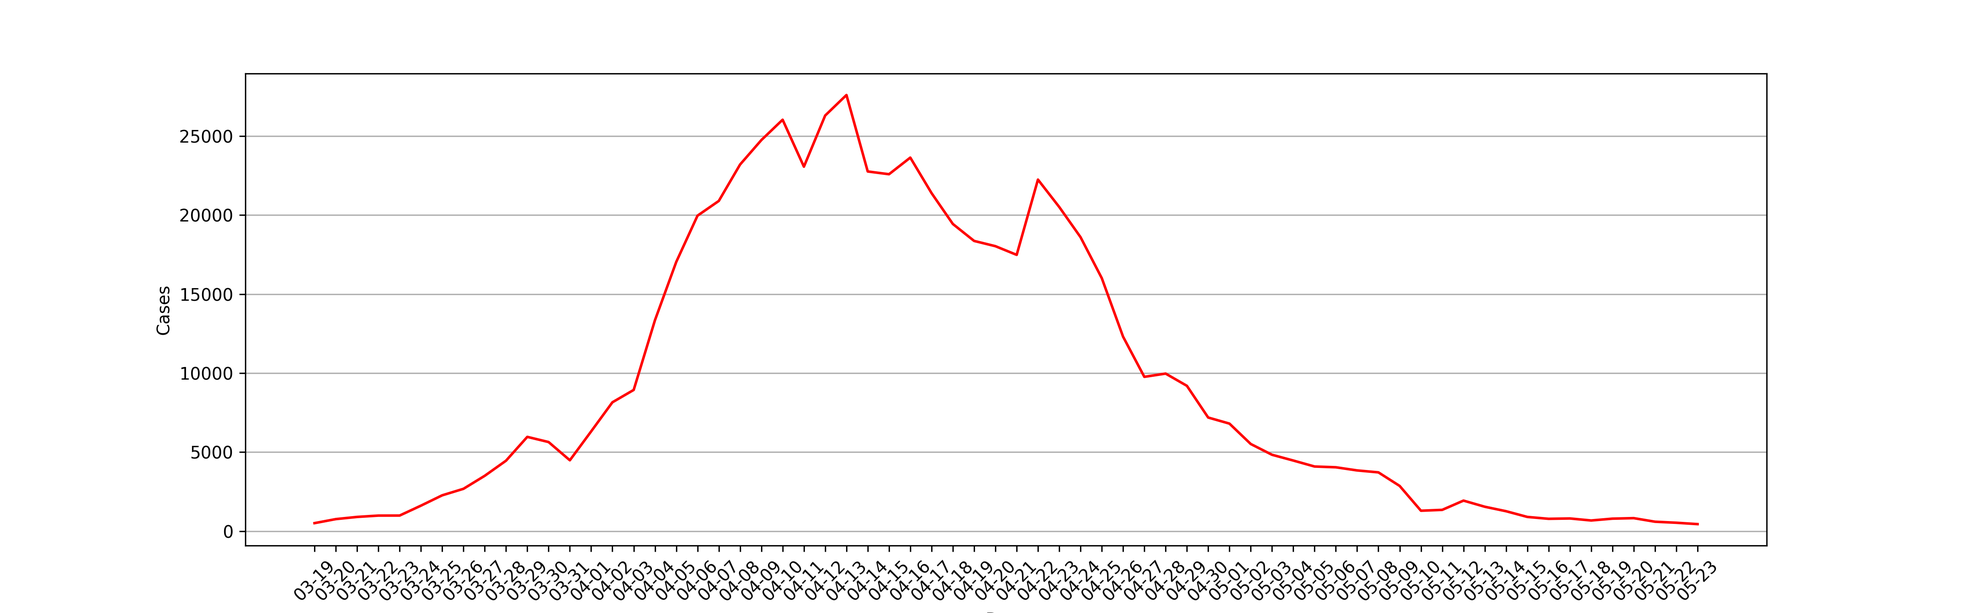
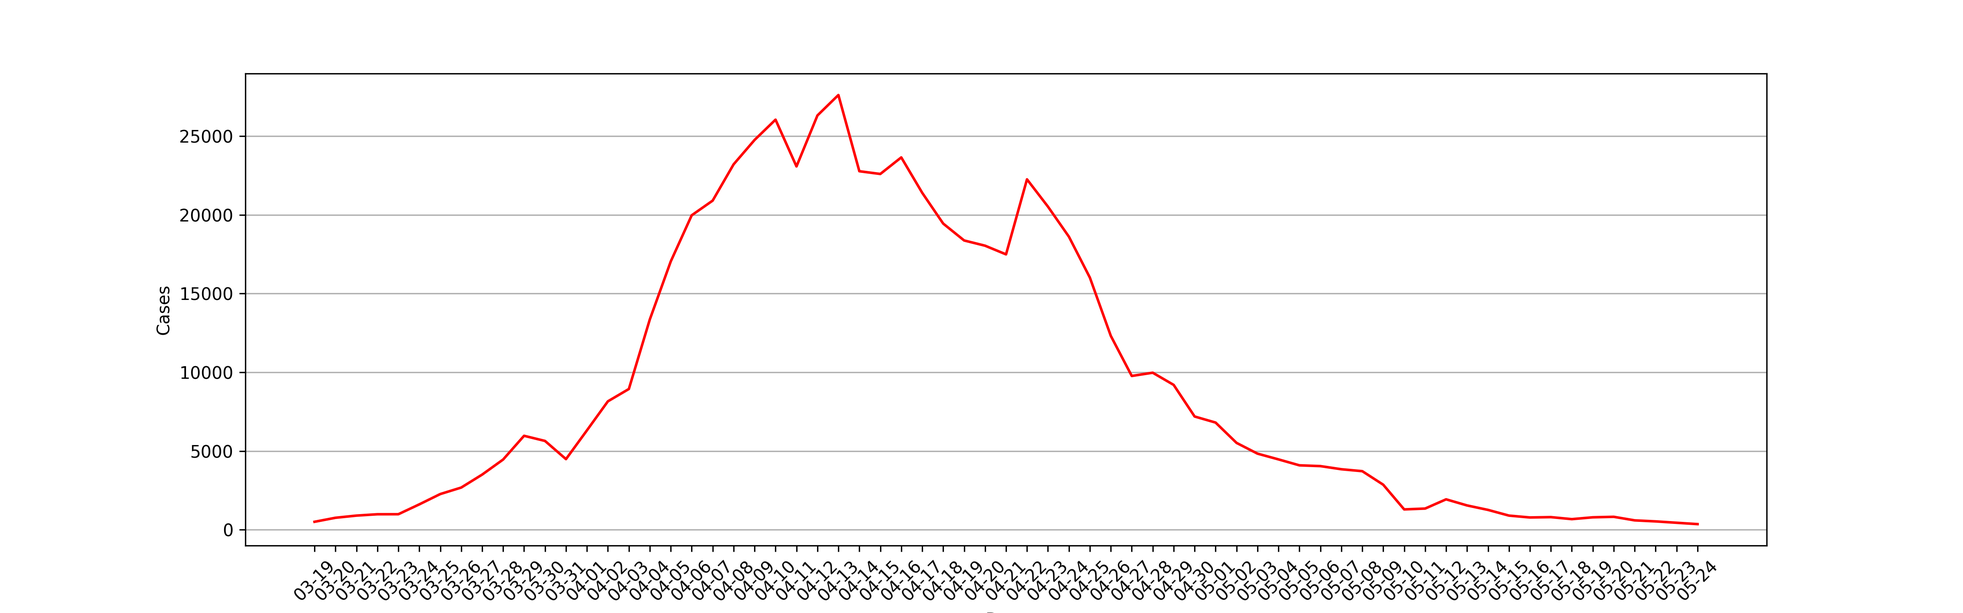
Commit by github action

diff --git a/archived_html/1946a8fdb590b7ddaebc3e6500a2647e.html b/archived_html/1946a8fdb590b7ddaebc3e6500a2647e.html
@@ -1,0 +1,151 @@
+<!DOCTYPE html>
+<html lang="zh-Hans">
+<head>
+    <meta charset="utf-8">
+    <meta http-equiv="Content-Security-Policy" content="upgrade-insecure-requests">
+    <meta name="viewport" content="width=device-width, initial-scale=1, maximum-scale=1, user-scalable=no">
+    <meta http-equiv="X-UA-Compatible" content="IE=Edge,chrome=1">
+    <meta http-equiv="Cache-Control" content="no-siteapp" />
+    <meta name="renderer" content="webkit">
+    <meta name="apple-mobile-web-app-capable" content="yes" />
+    <meta name="apple-mobile-web-app-status-bar-style" content="black" />
+    <title>上海2022年5月24日，新增本土新冠肺炎确诊病例44例 新增本土无症状感染者343例 无新增境外输入性新冠肺炎确诊病例 新增境外输入性无症状感染者3例__上海市卫生健康委员会</title>
+    <meta name="ColumnDescription" content="新闻发布"><!-- * -->
+    <meta name="ColumnKeywords" content="新闻发布"><!-- * -->
+    <!--<meta name="ColumnType" content=""> * -->
+    <meta name="ColumnName" content="新闻发布"><!-- * -->
+    <meta name="ArticleTitle" content="上海2022年5月24日，新增本土新冠肺炎确诊病例44例 新增本土无症状感染者343例 无新增境外输入性新冠肺炎确诊病例 新增境外输入性无症状感染者3例"><!-- * -->
+    <meta name="PubDate" content="2022-05-25"><!-- * -->
+    <meta name="ContentSource" content="上海市卫生健康委员会"><!-- * -->
+    <meta name="Author" content="上海市卫生健康委员会">
+    <meta name="Description" content="" />
+    <meta name="applicable-device" content="pc;mobile">
+    <meta name="location" content="北纬N31°11′51.89″ 东经E121°30′5.42″">
+    <!-- min CSS -->
+    <link rel="stylesheet" href="/assets/css/ETUI/ETUI3.min.css">
+    <!-- Custom CSS -->
+    <link rel="stylesheet" href="/assets/plugin/owl/owl.carousel.css">
+    <link rel="stylesheet" href="/assets/css/style.css">
+    <link rel="stylesheet" href="/assets/css/responsive.css">
+    <link rel="stylesheet" href="/assets/css/ETUI/ETUI3.Utility.css">
+    <!-- icons -->
+    <link rel="shortcut icon" href="/assets/img/ico/favicon.png">
+    <!-- 无障碍工具条 -->
+   <!-- <link rel="stylesheet" href="http://www.shanghai.gov.cn/jhelper_V2.0/jhelper_tool_style.css">
+    <script src="http://www.shanghai.gov.cn/jhelper_V2.0/wsj/jhelper_config.js" charset="gb2312"></script>
+    <noscript>不能读取工具条配置</noscript>
+    <script src="http://www.shanghai.gov.cn/jhelper_V2.0/jhelper_2.0.js" charset="gb2312"></script>
+    <noscript>不能读取工具条</noscript> 
+     -->
+    <script type="text/javascript">
+        function onsubmmit(pageIndex){
+            $("#pageIndex").val(1);
+            $("#searchField").val("0");
+            $("#timeScope").val("0");
+            $("#cmsSearchId").val("0");
+            $("#searchForm").submit();
+        }
+        function onselsubmmit(){
+            $("#pageIndex").val(1);
+            $("#searchForm").submit();
+        }
+        function psubmmit(pageIndex){
+            $("#pageIndex").val(pageIndex);
+            $("#searchForm").submit();
+        }
+        // 栏目
+        function chsubmmit(searchChId){
+            $("#pageIndex").val(1);
+            $("#searchField").val("0");
+            $("#timeScope").val("0");
+            $("#cmsSearchId").val(searchChId);
+            $("#searchForm").submit();
+        }
+    </script> 
+    <!-- 无障碍工具条 -->
+</head>
+<body>
+    <div id="accessNull"></div>
+    <div id="container">
+        <div class="channelinfo hidden"></div>
+        <script src="/assets/js/header.js"></script>
+        <div class="main" id="main">
+            <script src="/assets/js/jiansuo.js"></script>
+            <div class="main-container margin-top-15">
+                <div class="container ">
+                    <div class="relitive">
+                        <ol class="breadcrumb">
+                           <span>您现在所在的位置：</span>
+                            <li><a href="/index.html">首页</a></li>
+                            <li class="active">新闻中心</li>
+                           
+                            <li class="active">新闻发布</li>
+                           
+                        </ol>
+                        <div class="date-se">
+                            <i class="iconfont">&#xe60b;</i> <span id="time"></span>
+                        </div>
+                    </div>
+
+                    <div class="Article">
+                        <h2 id="ivs_title" class="Article-title">上海2022年5月24日，新增本土新冠肺炎确诊病例44例 新增本土无症状感染者343例 无新增境外输入性新冠肺炎确诊病例 新增境外输入性无症状感染者3例</br>
+                         <h2 class="Article-title">
+                            <small id="ivs_date" class="Article-time">( 2022-05-25)</small>
+                        </h2>
+                        <div id="ivs_player" style="text-align:center;"></div>
+                        <div id="ivs_content" class="Article_content">
+                           
+                                 <p style="font-size: medium;white-space: normal;margin-top: 10px;text-indent: 40px"><span style="font-size: 20px;font-family: 仿宋_GB2312">市卫健委今早（25日）通报：2022年5月24日0—24时，新增本土新冠肺炎确诊病例44例和无症状感染者343例，其中32例确诊病例为既往无症状感染者转归，12例确诊病例和342例无症状感染者在隔离管控中发现。新增境外输入性无症状感染者3例，均在闭环管控中发现。</span></p><p style="font-size: medium;white-space: normal;margin-top: 10px;text-indent: 40px"><span style="font-size: 20px;font-family: 仿宋_GB2312">2022</span><span style="font-size: 20px;font-family: 仿宋_GB2312">年5月24日0—24时，新增本土新冠肺炎确诊病例44例，含32例由既往无症状感染者转为确诊病例。新增治愈出院268例。</span></p><p style="font-size: medium;white-space: normal;margin-top: 10px;text-indent: 40px"><strong><span style="font-size: 20px;font-family: 黑体">病例1—病例4</span></strong><span style="font-size: 20px;font-family: 仿宋_GB2312">，居住于浦东新区，</span><strong><span style="font-size: 20px;font-family: 黑体">病例5</span></strong><span style="font-size: 20px;font-family: 仿宋_GB2312">，居住于徐汇区，</span><strong><span style="font-size: 20px;font-family: 黑体">病例6—病例9</span></strong><span style="font-size: 20px;font-family: 仿宋_GB2312">，居住于静安区，</span><strong><span style="font-size: 20px;font-family: 黑体">病例10</span></strong><span style="font-size: 20px;font-family: 仿宋_GB2312">，居住于普陀区，</span><strong><span style="font-size: 20px;font-family: 黑体">病例11、病例12</span></strong><span style="font-size: 20px;font-family: 仿宋_GB2312">，居住于宝山区，均为本市闭环隔离管控人员，其间新冠病毒核酸检测结果异常，经疾控中心复核结果为阳性。经市级专家会诊，综合流行病学史、临床症状、实验室检测和影像学检查结果等，诊断为确诊病例。</span></p><p style="font-size: medium;white-space: normal;margin-top: 10px;text-indent: 40px"><strong><span style="font-size: 20px;font-family: 黑体">病例13—病例24</span></strong><span style="font-size: 20px;font-family: 仿宋_GB2312">，居住于黄浦区，</span><strong><span style="font-size: 20px;font-family: 黑体">病例25—病例27</span></strong><span style="font-size: 20px;font-family: 仿宋_GB2312">，居住于虹口区，</span><strong><span style="font-size: 20px;font-family: 黑体">病例28—病例40</span></strong><span style="font-size: 20px;font-family: 仿宋_GB2312">，居住于杨浦区，</span><strong><span style="font-size: 20px;font-family: 黑体">病例41、病例42</span></strong><span style="font-size: 20px;font-family: 仿宋_GB2312">，居住于闵行区，</span><strong><span style="font-size: 20px;font-family: 黑体">病例43</span></strong><span style="font-size: 20px;font-family: 仿宋_GB2312">，居住于宝山区，</span><strong><span style="font-size: 20px;font-family: 黑体">病例44</span></strong><span style="font-size: 20px;font-family: 仿宋_GB2312">，居住于嘉定区，</span><span style="font-size: 20px;font-family: 仿宋_GB2312">为此前报告的本土无症状感染者。</span><span style="font-size: 20px;font-family: 仿宋_GB2312">经市级专家会诊，综合流行病学史、临床症状、实验室检测和影像学检查结果等，诊断为确诊病例。</span></p><p style="font-size: medium;white-space: normal;margin-top: 10px;text-indent: 40px"><span style="font-size: 20px;font-family: 仿宋_GB2312">2022</span><span style="font-size: 20px;font-family: 仿宋_GB2312">年5月24日0—24时，新增本土无症状感染者343例。</span></p><p style="font-size: medium;white-space: normal;text-indent: 40px"><strong><span style="font-size: 20px;font-family: 黑体">无症状感染者1—无症状感染者43</span></strong><span style="font-size: 20px;font-family: 仿宋_GB2312">，居住于浦东新区，</span><strong><span style="font-size: 20px;font-family: 黑体">无症状感染者44—无症状感染者64</span></strong><span style="font-size: 20px;font-family: 仿宋_GB2312">，居住于黄浦区，</span><strong><span style="font-size: 20px;font-family: 黑体">无症状感染者65—无症状感染者85</span></strong><span style="font-size: 20px;font-family: 仿宋_GB2312">，居住于徐汇区，</span><strong><span style="font-size: 20px;font-family: 黑体">无症状感染者86—无症状感染者111</span></strong><span style="font-size: 20px;font-family: 仿宋_GB2312">，居住于长宁区，</span><strong><span style="font-size: 20px;font-family: 黑体">无症状感染者112—无症状感染者147</span></strong><span style="font-size: 20px;font-family: 仿宋_GB2312">，居住于静安区，</span><strong><span style="font-size: 20px;font-family: 黑体">无症状感染者148—无症状感染者155</span></strong><span style="font-size: 20px;font-family: 仿宋_GB2312">，居住于普陀区，</span><strong><span style="font-size: 20px;font-family: 黑体">无症状感染者156—无症状感染者206</span></strong><span style="font-size: 20px;font-family: 仿宋_GB2312">，居住于虹口区，</span><strong><span style="font-size: 20px;font-family: 黑体">无症状感染者207—无症状感染者296</span></strong><span style="font-size: 20px;font-family: 仿宋_GB2312">，居住于杨浦区，</span><strong><span style="font-size: 20px;font-family: 黑体">无症状感染者297—无症状感染者318</span></strong><span style="font-size: 20px;font-family: 仿宋_GB2312">，居住于闵行区，</span><strong><span style="font-size: 20px;font-family: 黑体">无症状感染者319—无症状感染者336</span></strong><span style="font-size: 20px;font-family: 仿宋_GB2312">，居住于宝山区，</span><strong><span style="font-size: 20px;font-family: 黑体">无症状感染者337</span></strong><span style="font-size: 20px;font-family: 仿宋_GB2312">，居住于嘉定区，</span><strong><span style="font-size: 20px;font-family: 黑体">无症状感染者338</span></strong><span style="font-size: 20px;font-family: 仿宋_GB2312">，居住于松江区，</span><strong><span style="font-size: 20px;font-family: 黑体">无症状感染者339—无症状感染者342</span></strong><span style="font-size: 20px;font-family: 仿宋_GB2312">，居住于青浦区，</span><span style="font-size: 20px;font-family: 仿宋_GB2312">均为本市闭环隔离管控人员，其间新冠病毒核酸检测结果</span><span style="font-size: 20px;font-family: 仿宋_GB2312">异常，经疾控中心复核结果为阳性，诊断为无症状感染者。</span></p><p style="font-size: medium;white-space: normal;text-indent: 40px"><strong><span style="font-size: 20px;font-family: 黑体">无症状感染者343</span></strong><span style="font-size: 20px;font-family: 仿宋_GB2312">，居住于嘉定区，在风险人群筛查中发现新冠病毒核酸检测结果异常，即被隔离管控。经疾控中心复核结果为阳性，诊断为无症状感染者。</span></p><p style="font-size: medium;white-space: normal;text-indent: 40px"><span style="font-size: 20px;font-family: 仿宋_GB2312">2022</span><span style="font-size: 20px;font-family: 仿宋_GB2312">年5月24日0—24时，</span><span style="font-size: 20px;font-family: 仿宋_GB2312">无新增境外输入性新冠肺炎确诊病例。</span></p><p style="font-size: medium;white-space: normal;text-indent: 40px"><span style="font-size: 20px;font-family: 仿宋_GB2312">2022</span><span style="font-size: 20px;font-family: 仿宋_GB2312">年5月24日0—24时，新增境外输入性无症状感染者3例。</span></p><p style="font-size: medium;white-space: normal;text-indent: 40px"><strong><span style="font-size: 20px;font-family: 黑体">无症状感染者1</span></strong><span style="font-size: 20px;font-family: 仿宋_GB2312">为中国籍，在美国留学，自美国出发，于2022年5月16日抵达上海浦东国际机场，入关后即被集中隔离观察，其间例行核酸检测异常。经排查，区疾控中心新冠病毒核酸检测结果为阳性。综合流行病学史、临床症状、实验室检测和影像学检查结果等，诊断为无症状感染者。</span></p><p style="font-size: medium;white-space: normal;text-indent: 40px"><strong><span style="font-size: 20px;font-family: 黑体">无症状感染者2</span></strong><span style="font-size: 20px;font-family: 仿宋_GB2312">为中国籍，在赤道几内亚工作，自赤道几内亚出发，经法国转机，于2022年5月20日抵达上海浦东国际机场，入关后即被集中隔离观察，其间例行核酸检测异常。经排查，区疾控中心新冠病毒核酸检测结果为阳性。综合流行病学史、临床症状、实验室检测和影像学检查结果等，诊断为无症状感染者。</span></p><p style="font-size: medium;white-space: normal;text-indent: 40px"><strong><span style="font-size: 20px;font-family: 黑体">无症状感染者3</span></strong><span style="font-size: 20px;font-family: 仿宋_GB2312">为中国籍，在美国留学，自美国出发，于2022年5月21日抵达上海浦东国际机场，入关后即被集中隔离观察，其间例行核酸检测异常。经排查，区疾控中心新冠病毒核酸检测结果为阳性。综合流行病学史、临床症状、实验室检测和影像学检查结果等，诊断为无症状感染者。</span></p><p style="font-size: medium;white-space: normal;text-indent: 40px"><span style="font-size: 20px;font-family: 仿宋_GB2312">3</span><span style="font-size: 20px;font-family: 仿宋_GB2312">例境外输入性无症状感染者已转至定点医疗机构医学观察，已追踪同航班密切接触者24人，均已落实集中隔离观察。</span></p><p style="font-size: medium;white-space: normal;text-indent: 40px"><span style="font-size: 20px;font-family: 仿宋_GB2312">2022</span><span style="font-size: 20px;font-family: 仿宋_GB2312">年5月24日0—24时，解除医学观察无症状感染者4599例，其中本土无症状感染者4597例，境外输入性无症状感染者2例。</span></p><p style="font-size: medium;white-space: normal;margin-top: 10px;text-indent: 40px;vertical-align: baseline"><span style="font-size: 20px;font-family: 仿宋_GB2312">2022</span><span style="font-size: 20px;font-family: 仿宋_GB2312">年2月26日0时至2022年5月24日24时，累计本土确诊57819例，治愈出院55043例，在院治疗2190例（其中重型134例，危重型34例），死亡586。现有待排查的疑似病例0例。</span></p><p style="font-size: medium;white-space: normal;margin-top: 10px;text-indent: 40px;vertical-align: baseline"><span style="font-size: 20px;font-family: 仿宋_GB2312">截至2022年5月24日24时，累计境外输入性确诊病例4605例，出院4599例，在院治疗6例。现有待排查的疑似病例1例。</span></p><p style="font-size: medium;white-space: normal;margin-top: 10px;text-indent: 40px;vertical-align: baseline"><span style="font-size: 20px;font-family: 仿宋_GB2312">&nbsp;</span></p><table align="center" cellspacing="0" cellpadding="0" width="544"><tbody><tr style="height: 24px" class="firstRow"><td width="379" colspan="2" style="border-width: 1px; border-color: windowtext; padding: 0px 7px; border-style: solid;" height="24"><p style="text-align: center;vertical-align: baseline"><strong><span style="font-size: 19px;font-family: 仿宋_GB2312">区域</span></strong></p></td><td width="165" style="border-width: 1px; border-top-color: windowtext; border-right-color: windowtext; border-bottom-color: windowtext; border-style: solid; border-left-color: initial; padding: 0px 7px;" height="24"><p style="text-align: center;vertical-align: baseline"><strong><span style="font-size: 19px;font-family: 仿宋_GB2312">在院治疗确诊病例</span></strong></p></td></tr><tr style="height: 42px"><td width="213" rowspan="3" style="border-width: 1px; border-right-color: windowtext; border-bottom-color: windowtext; border-left-color: windowtext; border-style: solid; border-top-color: initial; padding: 0px 7px;" height="42"><p style="text-align: center;vertical-align: baseline"><span style="font-size: 19px;font-family: 仿宋_GB2312">境外输入人员</span></p><p style="text-align: center;vertical-align: baseline"><span style="font-size: 19px;font-family: 仿宋_GB2312">（按输入地分）</span></p></td><td width="165" valign="top" style="border-width: 1px; border-style: solid; border-top-color: initial; border-left-color: initial; border-bottom-color: windowtext; border-right-color: windowtext; padding: 0px 7px;" height="42"><p style="text-align: center;vertical-align: middle"><span style="font-size: 19px;font-family: 仿宋_GB2312">美国</span></p></td><td width="165" valign="top" style="border-width: 1px; border-style: solid; border-top-color: initial; border-left-color: initial; border-bottom-color: windowtext; border-right-color: windowtext; padding: 0px 7px;" height="42"><p style="text-align: center;vertical-align: middle"><span style="font-size: 19px;font-family: 仿宋_GB2312">4</span></p></td></tr><tr style="height: 42px"><td width="165" valign="top" style="border-width: 1px; border-style: solid; border-top-color: initial; border-left-color: initial; border-bottom-color: windowtext; border-right-color: windowtext; padding: 0px 7px;" height="42"><p style="text-align: center;vertical-align: middle"><span style="font-size: 19px;font-family: 仿宋_GB2312">加拿大</span></p></td><td width="165" valign="top" style="border-width: 1px; border-style: solid; border-top-color: initial; border-left-color: initial; border-bottom-color: windowtext; border-right-color: windowtext; padding: 0px 7px;" height="42"><p style="text-align: center;vertical-align: middle"><span style="font-size: 19px;font-family: 仿宋_GB2312">1</span></p></td></tr><tr style="height: 42px"><td width="165" valign="top" style="border-width: 1px; border-style: solid; border-top-color: initial; border-left-color: initial; border-bottom-color: windowtext; border-right-color: windowtext; padding: 0px 7px;" height="42"><p style="text-align: center;vertical-align: middle"><span style="font-size: 19px;font-family: 仿宋_GB2312">刚果（金）</span></p></td><td width="165" valign="top" style="border-width: 1px; border-style: solid; border-top-color: initial; border-left-color: initial; border-bottom-color: windowtext; border-right-color: windowtext; padding: 0px 7px;" height="42"><p style="text-align: center;vertical-align: middle"><span style="font-size: 19px;font-family: 仿宋_GB2312">1</span></p></td></tr><tr style="height: 33px"><td width="213" rowspan="16" style="border-width: 1px; border-right-color: windowtext; border-bottom-color: windowtext; border-left-color: windowtext; border-style: solid; border-top-color: initial; padding: 0px 7px;" height="33"><p style="text-indent: 19px;vertical-align: baseline"><span style="font-size: 19px;font-family: 仿宋_GB2312">本市居住或工作地</span></p></td><td width="165" style="border-width: 1px; border-style: solid; border-top-color: initial; border-left-color: initial; border-bottom-color: windowtext; border-right-color: windowtext; padding: 0px 7px;" height="33"><p style="text-align: center;vertical-align: middle"><span style="font-size: 19px;font-family: 仿宋_GB2312">浦东</span></p></td><td width="165" style="border-width: 1px; border-style: solid; border-top-color: initial; border-left-color: initial; border-bottom-color: windowtext; border-right-color: windowtext; padding: 0px 7px;" height="33"><p style="text-align: center"><span style="font-size: 19px;font-family: 仿宋_GB2312">151</span></p></td></tr><tr style="height: 33px"><td width="165" style="border-width: 1px; border-style: solid; border-top-color: initial; border-left-color: initial; border-bottom-color: windowtext; border-right-color: windowtext; padding: 0px 7px;" height="33"><p style="text-align: center;vertical-align: middle"><span style="font-size: 19px;font-family: 仿宋_GB2312">黄浦</span></p></td><td width="165" style="border-width: 1px; border-style: solid; border-top-color: initial; border-left-color: initial; border-bottom-color: windowtext; border-right-color: windowtext; padding: 0px 7px;" height="33"><p style="text-align: center"><span style="font-size: 19px;font-family: 仿宋_GB2312">307</span></p></td></tr><tr style="height: 33px"><td width="165" style="border-width: 1px; border-style: solid; border-top-color: initial; border-left-color: initial; border-bottom-color: windowtext; border-right-color: windowtext; padding: 0px 7px;" height="33"><p style="text-align: center;vertical-align: middle"><span style="font-size: 19px;font-family: 仿宋_GB2312">徐汇</span></p></td><td width="165" style="border-width: 1px; border-style: solid; border-top-color: initial; border-left-color: initial; border-bottom-color: windowtext; border-right-color: windowtext; padding: 0px 7px;" height="33"><p style="text-align: center"><span style="font-size: 19px;font-family: 仿宋_GB2312">309</span></p></td></tr><tr style="height: 33px"><td width="165" style="border-width: 1px; border-style: solid; border-top-color: initial; border-left-color: initial; border-bottom-color: windowtext; border-right-color: windowtext; padding: 0px 7px;" height="33"><p style="text-align: center;vertical-align: middle"><span style="font-size: 19px;font-family: 仿宋_GB2312">长宁</span></p></td><td width="165" style="border-width: 1px; border-style: solid; border-top-color: initial; border-left-color: initial; border-bottom-color: windowtext; border-right-color: windowtext; padding: 0px 7px;" height="33"><p style="text-align: center"><span style="font-size: 19px;font-family: 仿宋_GB2312">143</span></p></td></tr><tr style="height: 33px"><td width="165" style="border-width: 1px; border-style: solid; border-top-color: initial; border-left-color: initial; border-bottom-color: windowtext; border-right-color: windowtext; padding: 0px 7px;" height="33"><p style="text-align: center;vertical-align: middle"><span style="font-size: 19px;font-family: 仿宋_GB2312">静安</span></p></td><td width="165" style="border-width: 1px; border-style: solid; border-top-color: initial; border-left-color: initial; border-bottom-color: windowtext; border-right-color: windowtext; padding: 0px 7px;" height="33"><p style="text-align: center"><span style="font-size: 19px;font-family: 仿宋_GB2312">359</span></p></td></tr><tr style="height: 33px"><td width="165" style="border-width: 1px; border-style: solid; border-top-color: initial; border-left-color: initial; border-bottom-color: windowtext; border-right-color: windowtext; padding: 0px 7px;" height="33"><p style="text-align: center;vertical-align: middle"><span style="font-size: 19px;font-family: 仿宋_GB2312">普陀</span></p></td><td width="165" style="border-width: 1px; border-style: solid; border-top-color: initial; border-left-color: initial; border-bottom-color: windowtext; border-right-color: windowtext; padding: 0px 7px;" height="33"><p style="text-align: center"><span style="font-size: 19px;font-family: 仿宋_GB2312">170</span></p></td></tr><tr style="height: 33px"><td width="165" style="border-width: 1px; border-style: solid; border-top-color: initial; border-left-color: initial; border-bottom-color: windowtext; border-right-color: windowtext; padding: 0px 7px;" height="33"><p style="text-align: center;vertical-align: middle"><span style="font-size: 19px;font-family: 仿宋_GB2312">虹口</span></p></td><td width="165" style="border-width: 1px; border-style: solid; border-top-color: initial; border-left-color: initial; border-bottom-color: windowtext; border-right-color: windowtext; padding: 0px 7px;" height="33"><p style="text-align: center"><span style="font-size: 19px;font-family: 仿宋_GB2312">225</span></p></td></tr><tr style="height: 33px"><td width="165" style="border-width: 1px; border-style: solid; border-top-color: initial; border-left-color: initial; border-bottom-color: windowtext; border-right-color: windowtext; padding: 0px 7px;" height="33"><p style="text-align: center;vertical-align: middle"><span style="font-size: 19px;font-family: 仿宋_GB2312">杨浦</span></p></td><td width="165" style="border-width: 1px; border-style: solid; border-top-color: initial; border-left-color: initial; border-bottom-color: windowtext; border-right-color: windowtext; padding: 0px 7px;" height="33"><p style="text-align: center"><span style="font-size: 19px;font-family: 仿宋_GB2312">432</span></p></td></tr><tr style="height: 33px"><td width="165" style="border-width: 1px; border-style: solid; border-top-color: initial; border-left-color: initial; border-bottom-color: windowtext; border-right-color: windowtext; padding: 0px 7px;" height="33"><p style="text-align: center;vertical-align: middle"><span style="font-size: 19px;font-family: 仿宋_GB2312">闵行</span></p></td><td width="165" style="border-width: 1px; border-style: solid; border-top-color: initial; border-left-color: initial; border-bottom-color: windowtext; border-right-color: windowtext; padding: 0px 7px;" height="33"><p style="text-align: center"><span style="font-size: 19px;font-family: 仿宋_GB2312">9</span></p></td></tr><tr style="height: 33px"><td width="165" style="border-width: 1px; border-style: solid; border-top-color: initial; border-left-color: initial; border-bottom-color: windowtext; border-right-color: windowtext; padding: 0px 7px;" height="33"><p style="text-align: center;vertical-align: middle"><span style="font-size: 19px;font-family: 仿宋_GB2312">宝山</span></p></td><td width="165" style="border-width: 1px; border-style: solid; border-top-color: initial; border-left-color: initial; border-bottom-color: windowtext; border-right-color: windowtext; padding: 0px 7px;" height="33"><p style="text-align: center"><span style="font-size: 19px;font-family: 仿宋_GB2312">14</span></p></td></tr><tr style="height: 33px"><td width="165" style="border-width: 1px; border-style: solid; border-top-color: initial; border-left-color: initial; border-bottom-color: windowtext; border-right-color: windowtext; padding: 0px 7px;" height="33"><p style="text-align: center;vertical-align: middle"><span style="font-size: 19px;font-family: 仿宋_GB2312">嘉定</span></p></td><td width="165" style="border-width: 1px; border-style: solid; border-top-color: initial; border-left-color: initial; border-bottom-color: windowtext; border-right-color: windowtext; padding: 0px 7px;" height="33"><p style="text-align: center"><span style="font-size: 19px;font-family: 仿宋_GB2312">8</span></p></td></tr><tr style="height: 33px"><td width="165" style="border-width: 1px; border-style: solid; border-top-color: initial; border-left-color: initial; border-bottom-color: windowtext; border-right-color: windowtext; padding: 0px 7px;" height="33"><p style="text-align: center;vertical-align: middle"><span style="font-size: 19px;font-family: 仿宋_GB2312">金山</span></p></td><td width="165" style="border-width: 1px; border-style: solid; border-top-color: initial; border-left-color: initial; border-bottom-color: windowtext; border-right-color: windowtext; padding: 0px 7px;" height="33"><p style="text-align: center"><span style="font-size: 19px;font-family: 仿宋_GB2312">1</span></p></td></tr><tr style="height: 33px"><td width="165" style="border-width: 1px; border-style: solid; border-top-color: initial; border-left-color: initial; border-bottom-color: windowtext; border-right-color: windowtext; padding: 0px 7px;" height="33"><p style="text-align: center;vertical-align: middle"><span style="font-size: 19px;font-family: 仿宋_GB2312">松江</span></p></td><td width="165" style="border-width: 1px; border-style: solid; border-top-color: initial; border-left-color: initial; border-bottom-color: windowtext; border-right-color: windowtext; padding: 0px 7px;" height="33"><p style="text-align: center"><span style="font-size: 19px;font-family: 仿宋_GB2312">1</span></p></td></tr><tr style="height: 33px"><td width="165" style="border-width: 1px; border-style: solid; border-top-color: initial; border-left-color: initial; border-bottom-color: windowtext; border-right-color: windowtext; padding: 0px 7px;" height="33"><p style="text-align: center;vertical-align: middle"><span style="font-size: 19px;font-family: 仿宋_GB2312">青浦</span></p></td><td width="165" style="border-width: 1px; border-style: solid; border-top-color: initial; border-left-color: initial; border-bottom-color: windowtext; border-right-color: windowtext; padding: 0px 7px;" height="33"><p style="text-align: center"><span style="font-size: 19px;font-family: 仿宋_GB2312">1</span></p></td></tr><tr style="height: 33px"><td width="165" style="border-width: 1px; border-style: solid; border-top-color: initial; border-left-color: initial; border-bottom-color: windowtext; border-right-color: windowtext; padding: 0px 7px;" height="33"><p style="text-align: center;vertical-align: middle"><span style="font-size: 19px;font-family: 仿宋_GB2312">奉贤</span></p></td><td width="165" style="border-width: 1px; border-style: solid; border-top-color: initial; border-left-color: initial; border-bottom-color: windowtext; border-right-color: windowtext; padding: 0px 7px;" height="33"><p style="text-align: center"><span style="font-size: 19px;font-family: 仿宋_GB2312">46</span></p></td></tr><tr style="height: 33px"><td width="165" style="border-width: 1px; border-style: solid; border-top-color: initial; border-left-color: initial; border-bottom-color: windowtext; border-right-color: windowtext; padding: 0px 7px;" height="33"><p style="text-align: center;vertical-align: middle"><span style="font-size: 19px;font-family: 仿宋_GB2312">崇明</span></p></td><td width="165" style="border-width: 1px; border-style: solid; border-top-color: initial; border-left-color: initial; border-bottom-color: windowtext; border-right-color: windowtext; padding: 0px 7px;" height="33"><p style="text-align: center"><span style="font-size: 19px;font-family: 仿宋_GB2312">14</span></p></td></tr><tr style="height: 33px"><td width="379" colspan="2" style="border-width: 1px; border-right-color: windowtext; border-bottom-color: windowtext; border-left-color: windowtext; border-style: solid; border-top-color: initial; padding: 0px 7px;" height="33"><p style="text-align: center;vertical-align: baseline"><span style="font-size: 19px;font-family: 仿宋_GB2312">合计</span></p></td><td width="165" style="border-width: 1px; border-style: solid; border-top-color: initial; border-left-color: initial; border-bottom-color: windowtext; border-right-color: windowtext; padding: 0px 7px;" height="33"><p style="text-align: center;vertical-align: baseline"><span style="font-size: 19px;font-family: 仿宋_GB2312">2196</span></p></td></tr></tbody></table><p style="font-size: medium;white-space: normal;margin-top: 10px;text-indent: 43px;vertical-align: baseline"><span style="font-size: 21px;font-family: Calibri, sans-serif">&nbsp;</span></p><p style="font-size: medium;white-space: normal;margin-top: 10px;text-indent: 43px;vertical-align: baseline"><span style="font-size: 21px;font-family: Calibri, sans-serif">&nbsp;</span></p><p><br/></p>
+                        </div>
+                        </div>
+                    </div>
+                </div>
+            </div>
+        </div>
+        <script src="/assets/js/footer.js"></script>
+        </div>
+    <!--Main JS-->
+    <script src="/assets/js/ETUI/jquery.min.1.12.4.js"></script>
+    <!--[if lt IE 9]>
+    <script src="/assets/js/ETUI/html5shiv.min.js"></script>
+    <script src="/assets/js/ETUI/respond.min.js"></script>
+    <![endif]-->
+    <script src="/assets/js/ETUI/ETUI3.min.js"></script>
+    <script src="/assets/plugin/owl/owl.carousel.min.js"></script>
+    <!--Custom JS-->
+    <script src="/assets/js/main.js"></script>
+    <script src="/assets/js/language.js"></script>
+    <!-- <script src="/assets/js/Time.js"></script> -->
+    <!--
+  <script src="/assets/js/jhelper_config.js" charset="gb2312"></script>
+<script type="text/javascript" src="https://jhelper.shanghai.gov.cn/publicJS/3100000010.js"></script>
+-->
+<script src="https://wsjkw.sh.gov.cn/wza/jhelper_config.js" charset="gb2312"></script>
+    <script type="text/javascript" src="http://jhelper.shanghai.gov.cn/publicJS/3100000010.js"></script>
+   <!-- <script type="text/javascript" src="http://voice.ewdcloud.com.cn:9292/js/ew_msc.js"></script>-->
+    <script>
+        jQuery(document).ready(function () {
+            Main.init();
+        });
+        jQuery(document).ready(function () {
+	        getToolbarMod();
+        });
+    </script>
+    <script>
+        function currentTime(){
+            var d = new Date(),str = '';
+            str += d.getFullYear()+'年';
+            str  += d.getMonth() + 1+'月';
+            str  += d.getDate()+'日';
+            var a = new Array("日", "一", "二", "三", "四", "五", "六");
+            var week = new Date().getDay();
+            var tody = "星期"+ a[week];
+            str +=' ';
+            str  += tody ;
+            return str;
+
+        }
+        setInterval(function(){$('#time').html(currentTime)},1000);
+    </script>
+</body>
+</html>

diff --git a/README.md b/README.md
@@ -35,6 +35,7 @@ git clone --depeth=1 https://github.com/lewangdev/shanghai-lockdown-covid-19.git
 
 | Date/Details | New Cases(*)  | Deaths | Confirmed Cases | Asymptomatic Cases | A2C Cases(*) |
 | ---- | ---------- | ---------- | ---------------- | ----------------- | ---------------------------- |
+| 2022-05-24 | 355 | 0 | 44 | 343 | 32 |
 | 2022-05-23 | 441 | 1 | 58 | 422 | 39 |
 | 2022-05-22 | 528 | 1 | 55 | 503 | 30 |
 | 2022-05-21 | 593 | 3 | 52 | 570 | 29 |
@@ -111,6 +112,7 @@ git clone --depeth=1 https://github.com/lewangdev/shanghai-lockdown-covid-19.git
 
 | Date | Total Cases  | Total Deaths | Case‑Fatality-Rate |
 | ---- | ---------- | ---------- | ---------- |
+| 2022-05-24 | 624061 | 586 | 0.0939% |
 | 2022-05-23 | 623706 | 586 | 0.0940% |
 | 2022-05-22 | 623265 | 585 | 0.0939% |
 | 2022-05-21 | 622737 | 584 | 0.0938% |
